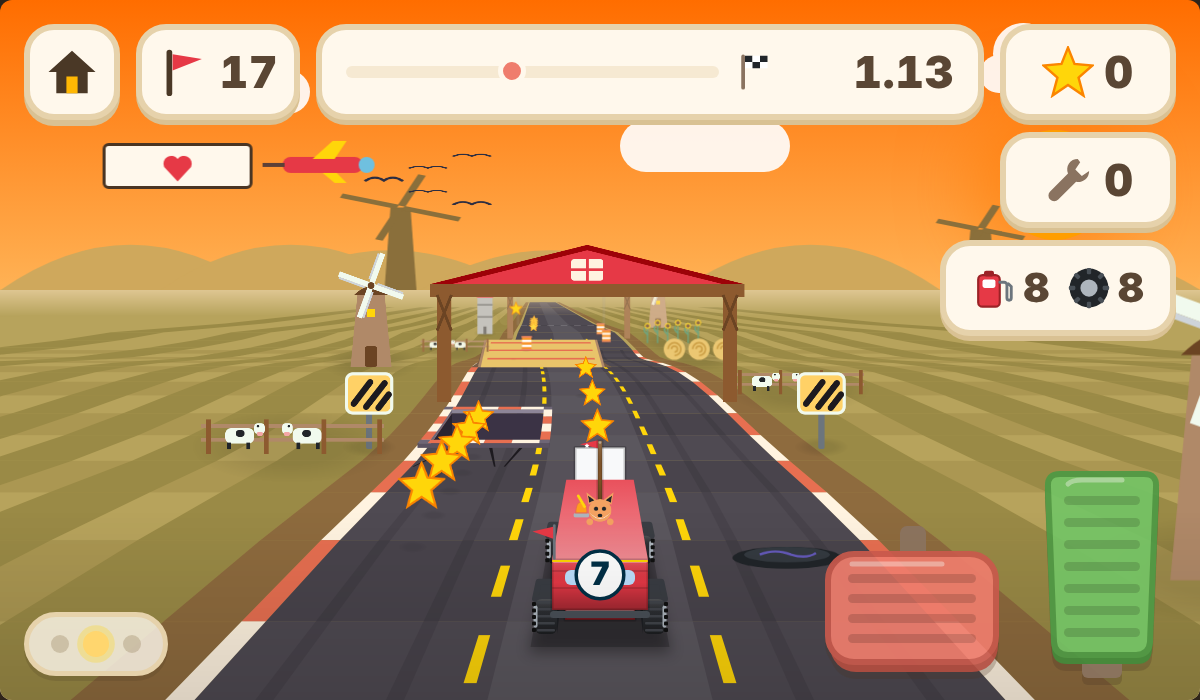
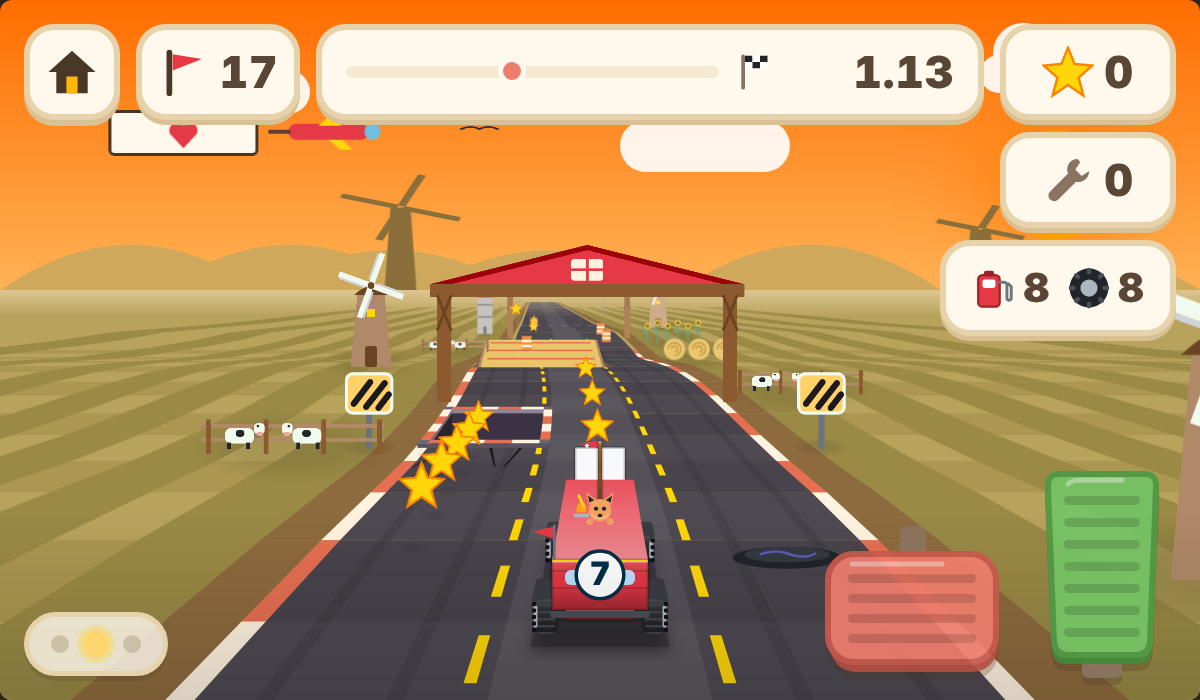
13.27.0: the ridge, so a crest reads as a hilltop and not a cliff into fog
A hill is extruded across the whole world, so its crest projects as one
dead-straight line, and with the valley behind it veiled the crest read
as a cliff edge into a flat wash with stars hovering over it. A row of
rounded humps (OCC_RIDGE) now sits on the crest line: a darker ground
shade blended through the haze (apart from both the near face below
and the mist above on every palette), fixed in the world so they slide
with the camera and bend with the road, scaled by the crest's depth and
capped, clipped to above the line. The crest reads as a soft hilltop
with land behind it.

polish-check's veil probe reads the ridge; course-check's hill check
accepts it above the crest. Battery 475/475, lint clean. Road shots
regenerated.

Claude-Session: https://claude.ai/code/session_016ck1aPGLVyXfjAcF2qTzon

Changed region(s): [[0.0617, 0.15, 0.3392, 0.27], [0.5242, 0.87, 0.555, 0.9], [0.4317, 0.87, 0.4625, 0.9]]

diff --git a/index.html b/index.html
@@ -2080,7 +2080,7 @@ html, body { background: #2f241a; }               /* warm dark letterbox, was na
 /* ===== 0. VERSION ===== */
 /* Bumped with each release alongside package.json; shown as a tiny numeral row in the
    grown-ups (profile) panel. The update gate fingerprints the code itself, not this. */
-const APP_VERSION = "13.26.0";
+const APP_VERSION = "13.27.0";
 /* the game's name as the OS sees it (share sheets). The <title>, the apple-mobile-web-app-title meta and
    manifest.webmanifest carry the same word; storage keys and save-code prefixes keep "vroom" forever. */
 const GAME_NAME = "Zoomies";
@@ -8325,7 +8325,10 @@ const OCC_STEP = 40, OCC_N = Math.ceil((ROAD_FAR - DRAW_NEAR) / OCC_STEP) + 2, O
    ground stay out until the haze is nearly gone (occA 0.15). A dip keeps its far side (same height as the near lip) and a
    taller hill behind keeps its head. */
 const OCCH = new Uint8Array(OCC_N), OCC_HEAD = 60;
-let occTop = Infinity, occHid = false, occA = 0;
+/* the ridge humps on a hiding crest: world lateral centre, half width, height (world units at the crest's depth) */
+const OCC_RIDGE = [[-3300, 900, 240], [-2100, 760, 300], [-1150, 620, 240], [-350, 700, 280], [500, 640, 220], [1350, 820, 320], [2300, 700, 240], [3300, 900, 290]];
+window.occRidgeTone = "";   /* the tone the humps were painted in this frame (the suite reads it) */
+let occTop = Infinity, occHid = false, occA = 0, occCrest = 0;   /* occCrest: depth of the crest that hides (the ridge is drawn at its scale) */
 function buildOcc() {
   let m = Infinity, maxE = -Infinity, prevY = Infinity, zTurn = Infinity, zCrest = 0;
   occTop = Infinity; occHid = false; occA = 0;
@@ -8338,6 +8341,7 @@ function buildOcc() {
     if (y < m) m = y;
   }
   occTop = m;
+  occCrest = zCrest;
   occA = occHid ? Math.max(0, Math.min(1, (zCrest - 30) / 150)) : 0;   /* keyed to the crest itself, not the drop past it; full to 180 before it, gone at 30 (13.25: was 280..60, the far side ghosted in too early) */
   if (occA === 0) { occHid = false; OCCH.fill(0); }
 }
@@ -8739,6 +8743,18 @@ function drawRoad(carX) {
       const hg = c.createLinearGradient(0, HORIZON, 0, occTop);
       hg.addColorStop(0, P.haze); hg.addColorStop(1, mist);
       c.fillStyle = hg; c.fillRect(-canvasOX, HORIZON, canvasW, occTop - HORIZON);
+      /* the ridge (13.27): a hill is extruded across the whole world, so its crest projects as one dead-straight line
+         and the veil above it read as a cliff edge into fog. A row of rounded humps in a hazier ground tone sits on
+         that line, fixed in the world (they slide with the camera and bend with the road) and scaled by the crest's
+         depth, so the crest reads as a soft hilltop with land behind it. Only the part above the line shows. */
+      const sc = CAM_D / (occCrest + CAM_D), ox = offAt(occCrest) - camWX;
+      c.save(); c.beginPath(); c.rect(-canvasOX, 0, canvasW, occTop + 0.5); c.clip();
+      c.fillStyle = window.occRidgeTone = mixHex(shade(P.ground2, -0.25), P.haze, 0.5);   /* a darker ground shade through the haze: apart from the near face below and the mist above on every palette */
+      c.beginPath();
+      const sk = Math.min(sc, 0.35);   /* the humps grow as the crest nears, but never past a third of their world size: a close crest is a hilltop, not a mountain range */
+      for (const [lx, w, h] of OCC_RIDGE) { const rx = w * sk, ry = h * sk; c.ellipse(600 + (lx + ox) * sc, occTop + ry * 0.35, rx, ry, 0, 0, Math.PI * 2); }
+      c.fill();
+      c.restore();
     }
     c.globalAlpha = 1;
   }

diff --git a/TASKS.md b/TASKS.md
@@ -293,6 +293,10 @@
 
 - [x] T40.1: Launches cut hard: the standard kick 0.9 -> 0.6 (`KICK_STD`, also the flight-star arc), mega 1.1 -> 0.75, hop 0.55 -> 0.4, the springs ladder +18% -> +8% a pip (1.24 at the top, was 1.54), the chomper's spit 470 -> 420. Flight tables, tails and landing zones unchanged (they were generous), so every landing stays clear. [SPID]
 
+## v13.27.0 (2026-10-11, user-directed: "yo wtf is this, did we have a failed build" (a crest drawn as a flat wall of fog))
+
+- [x] T47.1: The ridge. A hill is extruded across the whole world, so its crest projects as one dead-straight line, and with the valley veiled the crest read as a cliff edge into fog with stars hovering over it. A row of rounded humps (`OCC_RIDGE`) in a hazier ground tone now sits on the crest line, fixed in the world and scaled by the crest's depth, clipped to above the line, so the crest reads as a soft hilltop with land behind. polish-check's veil probe reads the ridge. [SPID]
+
 ## v13.26.0 (2026-10-10, user-directed: "move the hold-to-reload button to the home screen and make it replace PLAY; implement what you think is best")
 
 - [x] T46.1: The PLAY pill is the update gate. When a new version is on the server the pill goes amber and swaps its face for the update one (a tray with an arrow dropping in, the hold ring round it, three sparkles: pictograms, no third word on screen); press and hold fills the ring and loads the new version, a quick tap lets go and stays put. The two round gate buttons (title and garage) are gone. update-check rewritten (8 -> 6), title-check follows. [SPID]

diff --git a/docs/ARCHITECTURE.md b/docs/ARCHITECTURE.md
@@ -226,7 +226,11 @@ of the crest in front, otherwise its road poked a stub through the horizon. `dra
 hidden steps over in mist (`mixHex(haze, ground, .55)`): one quad per run of hidden steps with the same
 crest in front (runs capped at ten steps), each clipped to above that crest's line (`OCC[i]`), so only the
 part of hidden ground that would show over the crest is veiled and the crest's own face stays ground. Above
-the visible ground a haze-to-mist gradient runs from the horizon to `occTop`. Both ride `occA`, full until
+the visible ground a haze-to-mist gradient runs from the horizon to `occTop`, and on that line sits the ridge
+(13.27, `OCC_RIDGE`): a row of rounded humps in a hazier ground tone (`occRidgeTone`), fixed in the world (they
+slide with the camera and bend with the road) and scaled by the crest's depth (`occCrest`), clipped to above the
+line. A hill is extruded across the whole world, so its crest projects as one dead-straight line; the humps make
+it read as a hilltop with land behind instead of a cliff edge into fog. All of it rides `occA`, full until
 180 before the crest and gone at 30. (13.25 restored the veil quads: the loop had lost its body, and the
 valley behind every crest showed through wherever a taller head behind lifted `occTop` above the crest.)
 
